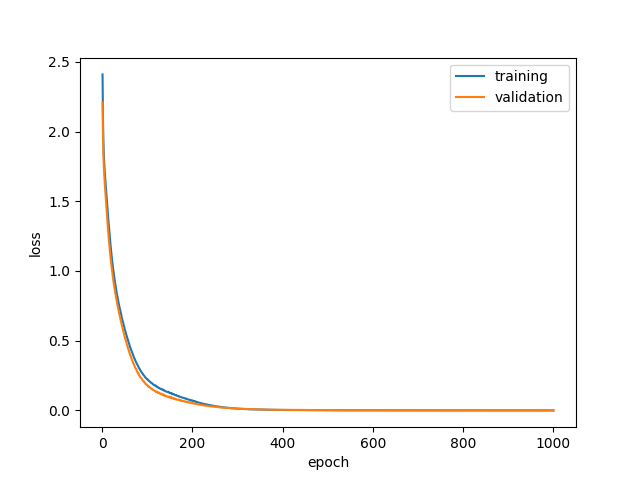
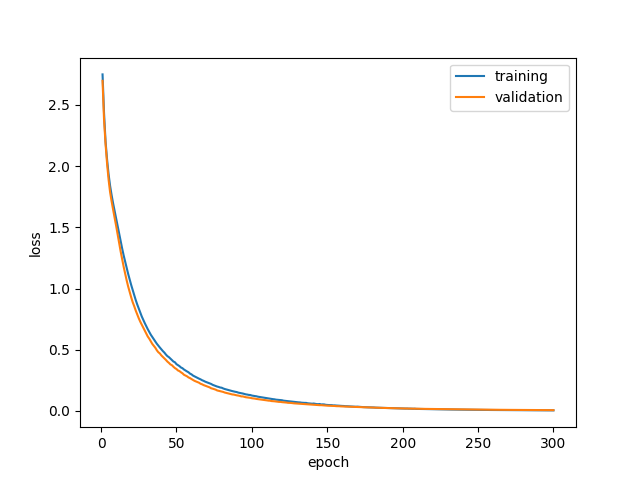
trained model using 300 epochs

diff --git a/ml-train.py b/ml-train.py
@@ -43,6 +43,10 @@ x_train, x_test, y_train, y_test = train_test_split(stars[features].values,
 # Set random seed for reproducability
 tensorflow.random.set_seed(0)
 
+# Use all the threads
+tensorflow.config.threading.set_intra_op_parallelism_threads(1)
+tensorflow.config.threading.set_inter_op_parallelism_threads(40)
+
 # Set data types for categorical labels
 # Set data types for float features
 x_train = x_train.astype('float32')
